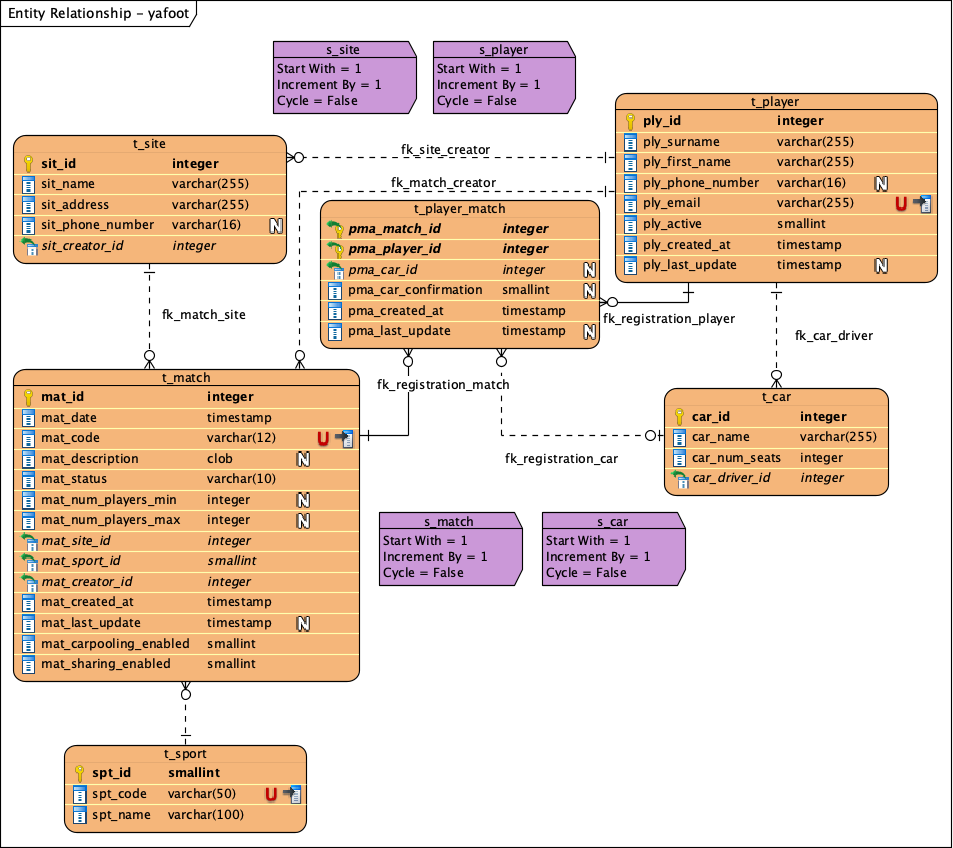
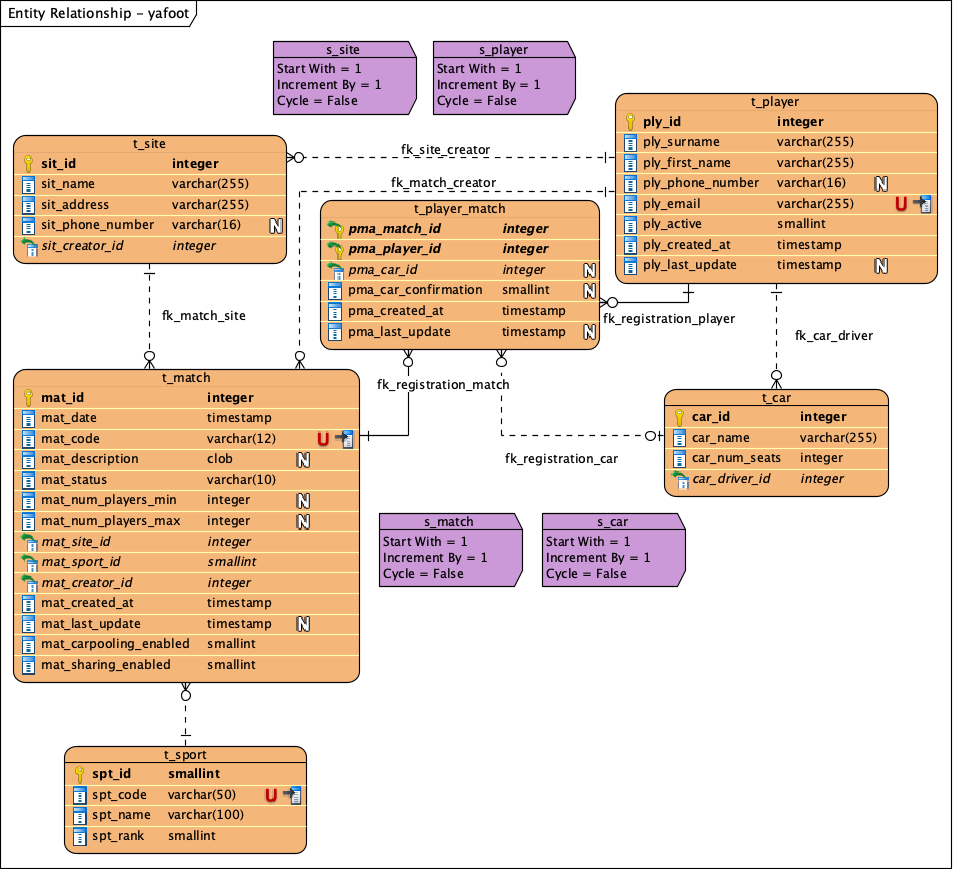
Added support for sports ranking. Hiking replaced by cricket in order to cover the most popular group sports

diff --git a/y-a-foot-core-api/src/main/java/net/andresbustamante/yafoot/core/model/enums/SportEnum.java b/y-a-foot-core-api/src/main/java/net/andresbustamante/yafoot/core/model/enums/SportEnum.java
@@ -16,7 +16,7 @@ public enum SportEnum {
     TENNIS(6),
     HOCKEY(7),
     BASEBALL(8),
-    HIKING(9),
+    CRICKET(9),
     BADMINTON(10),
     FUTSAL(11),
     ICE_HOCKEY(12),
